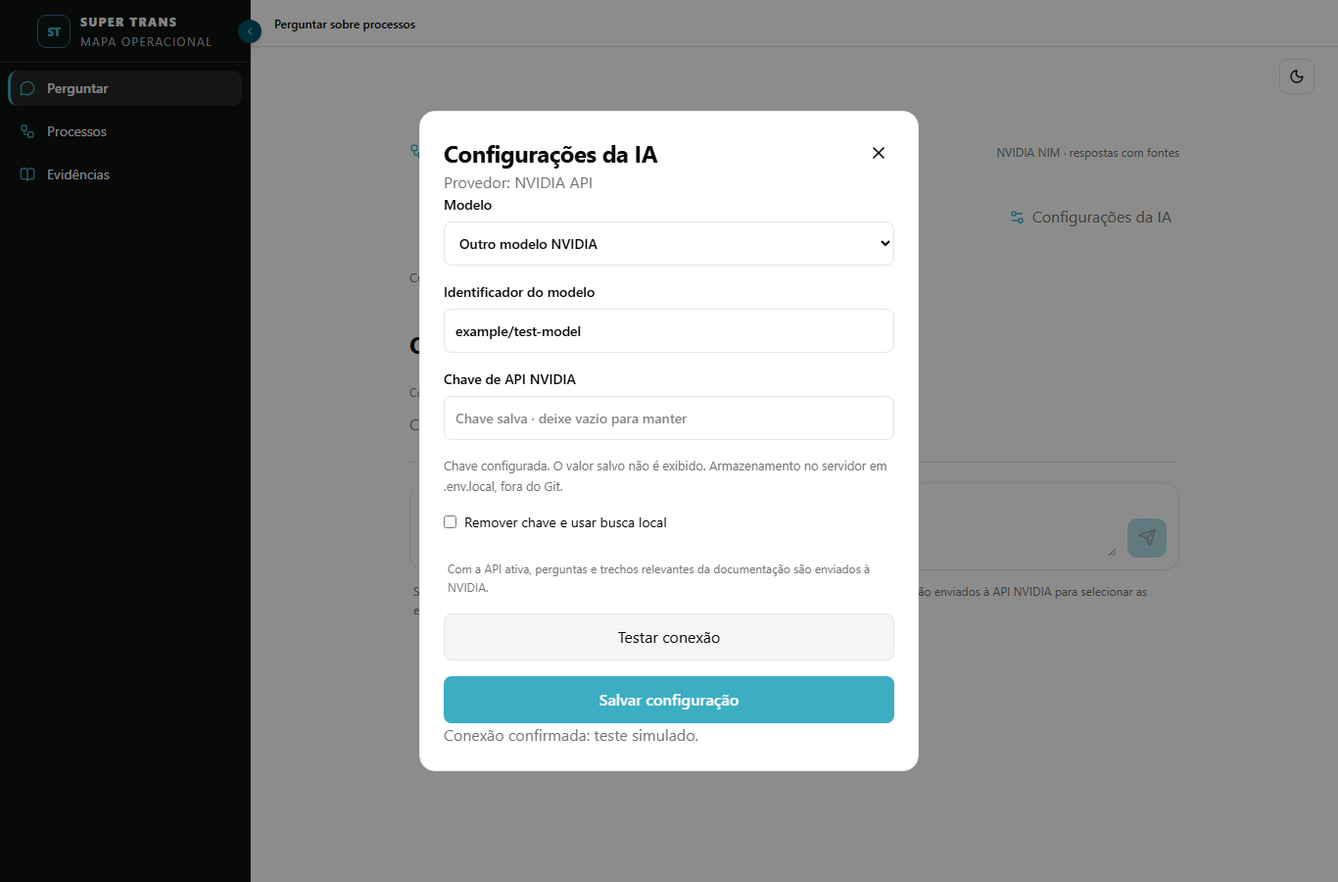
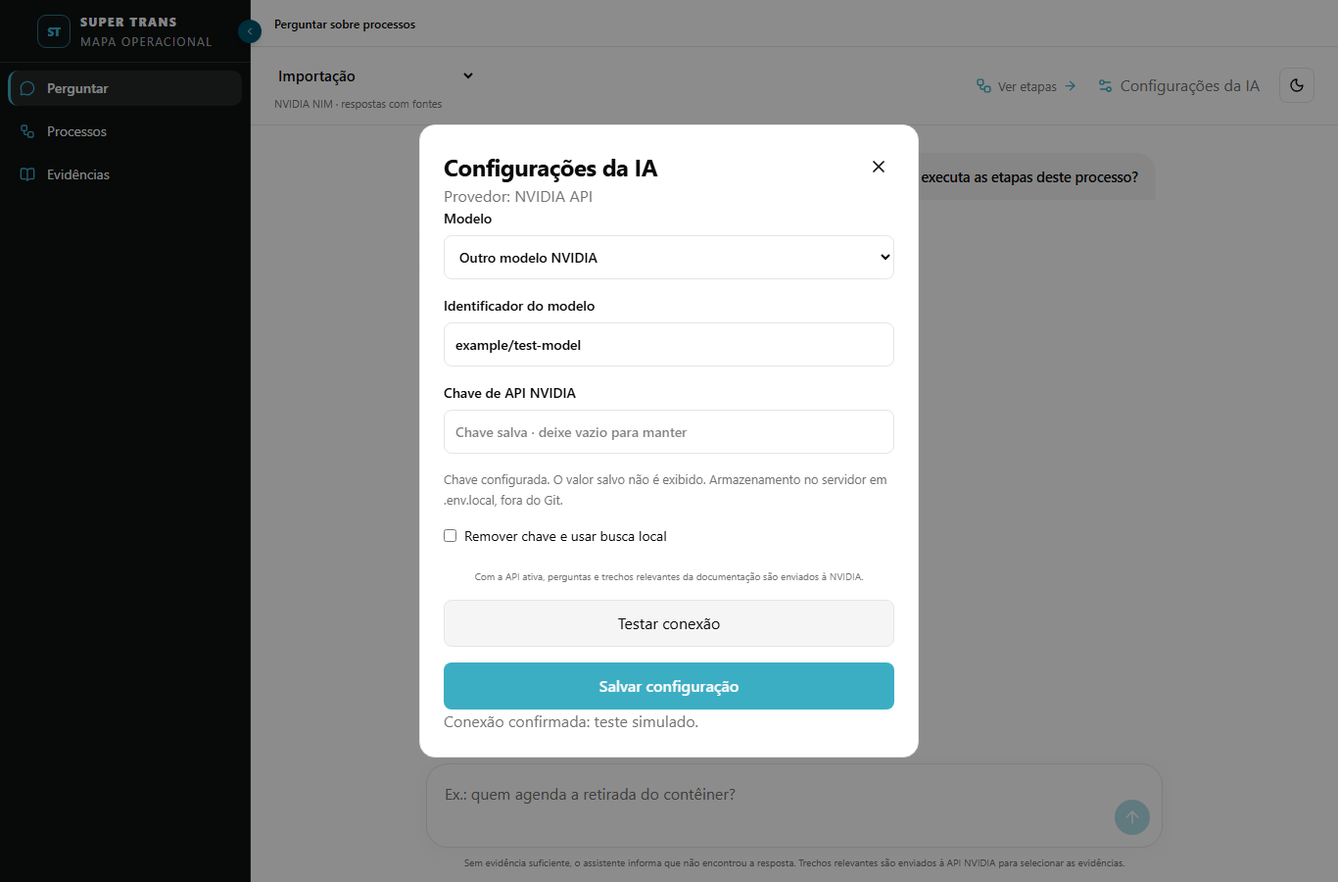
fix: limitar rolagem à conversa e ancorar composer do chat

diff --git a/frontend/src/styles.css b/frontend/src/styles.css
@@ -1471,54 +1471,78 @@ a:focus-visible { outline: 3px solid var(--ring); outline-offset: 2px; }
 .human-review-browser summary {
   cursor: pointer;
 }
-.assistant-page { width: min(850px, 100%); margin: 0 auto; padding: 24px 32px 32px; }
-.assistant-theme { display: flex; justify-content: flex-end; padding: 12px 24px 0; }
-.assistant-header { display: flex; align-items: center; justify-content: space-between; gap: 16px; margin-bottom: 36px; }
-.assistant-flow-link { display: inline-flex; align-items: center; gap: 8px; color: var(--text-secondary); font-size: 14px; }
-.assistant-flow-link svg { color: var(--accent); }
-.assistant-local-status { color: var(--text-muted); font-size: 12px; }
-.assistant-welcome { padding: 28px 0 18px; }
-.assistant-mark { display: inline-flex; padding: 14px; border-radius: 16px; color: var(--accent); background: var(--accent-soft); }
-.assistant-welcome h1 { margin: 20px 0 12px; font-size: clamp(28px, 4vw, 38px); line-height: 1.15; letter-spacing: -.035em; }
-.assistant-welcome p { max-width: 57ch; color: var(--text-secondary); font-size: 16px; }
-.assistant-scope { display: flex; align-items: center; gap: 14px; margin: 22px 0; color: var(--text-secondary); font-size: 13px; }
-.assistant-scope select { min-width: 0; max-width: 65%; padding: 9px 32px 9px 12px; border: 1px solid var(--border-main); border-radius: 8px; color: var(--text-primary); background: var(--bg-surface); }
-.assistant-suggestions { display: grid; gap: 8px; margin: 20px 0 28px; }
-.assistant-suggestions button { display: flex; align-items: center; justify-content: space-between; gap: 14px; padding: 14px 16px; border: 1px solid var(--border-soft); border-radius: 10px; background: transparent; color: var(--text-secondary); text-align: left; font-size: 14px; }
-.assistant-suggestions button:hover { color: var(--text-primary); background: var(--bg-surface); }
-.assistant-suggestions svg { flex: none; color: var(--text-muted); }
-.assistant-composer { display: flex; align-items: flex-end; gap: 10px; padding: 12px; border: 1px solid var(--border-main); border-radius: 15px; background: var(--bg-surface); }
-.assistant-composer:focus-within { border-color: var(--accent); box-shadow: 0 0 0 2px var(--accent-soft); }
-.assistant-composer textarea { width: 100%; min-height: 64px; max-height: 180px; resize: vertical; border: 0; outline: 0; padding: 8px; background: transparent; color: var(--text-primary); font-size: 16px; line-height: 1.5; }
-.assistant-composer textarea::placeholder { color: var(--text-muted); }
-.assistant-composer button { display: grid; place-items: center; flex: none; width: 40px; height: 40px; border: 0; border-radius: 10px; color: #0c2027; background: var(--accent); }
-.assistant-composer button:disabled { opacity: .4; cursor: default; }
-.assistant-footnote { margin: 12px 4px 0; font-size: 12px; color: var(--text-muted); line-height: 1.6; }
-.assistant-turn { padding: 10px 0 26px; margin: 12px 0 20px; border-bottom: 1px solid var(--border-soft); }
-.assistant-turn h2 { margin: 0 0 22px; font-size: 21px; line-height: 1.45; overflow-wrap: anywhere; }
-.assistant-answer > p { color: var(--text-secondary); }
-.assistant-evidence { margin: 20px 0; }
-.assistant-evidence h3 { margin: 0 0 8px; color: var(--text-primary); font-size: 15px; font-weight: 600; }
-.assistant-evidence blockquote { margin: 0; padding: 0 0 0 14px; border-left: 2px solid var(--accent); color: var(--text-secondary); font-size: 14px; line-height: 1.8; white-space: pre-line; overflow-wrap: anywhere; }
-.assistant-evidence details { margin: 10px 0 0 14px; color: var(--text-muted); font-size: 12px; }
-.assistant-evidence summary { cursor: pointer; }
-.assistant-evidence summary svg { display: inline; vertical-align: -2px; margin-right: 5px; color: var(--accent); }
-.assistant-evidence a { color: var(--accent); }
-.assistant-loading { display: flex; align-items: center; gap: 8px; color: var(--text-muted); }
-.assistant-loading svg { animation: assistant-spin 1.2s linear infinite; }
-.assistant-notice { color: var(--text-secondary); font-size: 14px; }
-.assistant-notice button { padding: 8px 12px; border: 1px solid var(--border-main); border-radius: 7px; background: var(--bg-surface); color: var(--text-primary); }
-@keyframes assistant-spin { to { transform: rotate(360deg); } }
-@media (prefers-reduced-motion: reduce) { .assistant-loading svg { animation: none; } }
-@media (max-width: 767px) {
-  .assistant-page { padding: 16px 18px 24px; }
-  .assistant-header { margin-bottom: 12px; flex-wrap: wrap; }
-  .assistant-welcome { padding-top: 14px; }
-  .assistant-scope { flex-wrap: wrap; gap: 8px; }
-  .assistant-scope select { max-width: 100%; width: 100%; }
+/* The chat shell owns the viewport; only its conversation pane scrolls. */
+.assistant-shell { height:100dvh; min-height:0; max-height:100dvh; overflow:hidden; }
+.assistant-shell > div:last-child { min-height:0; }
+.assistant-main-content { display:flex; flex-direction:column; min-height:0; overflow:hidden; }
+.assistant-shell .content-shell { flex:1; min-height:0; width:100%; padding:0; overflow:hidden; }
+.assistant-page { display:flex; flex-direction:column; flex:1; width:100%; min-height:0; min-width:0; overflow:hidden; }
+.assistant-header { display:flex; flex:none; align-items:center; justify-content:space-between; gap:16px; padding:12px 24px; border-bottom:1px solid var(--border); background:var(--background); }
+.assistant-header-context { display:grid; gap:4px; min-width:0; }
+.assistant-header-actions { display:flex; align-items:center; gap:12px; flex:none; }
+.assistant-scope { display:block; min-width:0; }
+.assistant-scope select { max-width:280px; width:100%; min-width:0; padding:6px 26px 6px 0; border:0; border-radius:6px; color:var(--foreground); background:var(--background); font-size:15px; font-weight:600; text-overflow:ellipsis; }
+.assistant-local-status { color:var(--muted-foreground); font-size:11px; }
+.assistant-flow-link { display:inline-flex; align-items:center; gap:6px; color:var(--muted-foreground); font-size:13px; white-space:nowrap; }
+.assistant-flow-link svg { color:var(--accent); }
+.assistant-conversation { flex:1; min-height:0; min-width:0; overflow-y:auto; overflow-x:hidden; overscroll-behavior-y:contain; scrollbar-gutter:stable; outline-offset:-3px; }
+.assistant-thread { width:min(800px,100%); min-width:0; margin:0 auto; padding:28px 24px 44px; }
+.assistant-thread.is-empty { display:grid; place-items:center; min-height:100%; padding-top:24px; padding-bottom:24px; }
+.assistant-welcome { width:100%; text-align:center; }
+.assistant-mark { display:inline-flex; padding:12px; border-radius:16px; color:var(--accent); background:var(--accent-soft); }
+.assistant-welcome h1 { margin:20px 0 12px; font-size:clamp(25px,3vw,36px) !important; line-height:1.2; letter-spacing:-.035em; }
+.assistant-welcome p { max-width:54ch; margin:0 auto; color:var(--muted-foreground); font-size:15px; line-height:1.6; }
+.assistant-suggestions { display:grid; grid-template-columns:repeat(3,minmax(0,1fr)); gap:10px; margin:28px 0 0; }
+.assistant-suggestions button { display:flex; align-items:flex-start; justify-content:space-between; gap:10px; padding:14px; border:1px solid var(--border); border-radius:14px; background:transparent; color:var(--muted-foreground); text-align:left; font-size:13px; line-height:1.5; }
+.assistant-suggestions button:hover { color:var(--foreground); background:var(--secondary); }
+.assistant-suggestions svg { flex:none; margin-top:3px; color:var(--accent); }
+.assistant-turn { min-width:0; margin:0 0 36px; padding:0; }
+.assistant-turn .assistant-question { width:fit-content; max-width:85%; margin:0 0 24px auto; padding:12px 18px; border-radius:20px 20px 4px 20px; background:var(--secondary); color:var(--foreground); font-size:15px !important; font-weight:500; line-height:1.6; overflow-wrap:anywhere; }
+.assistant-answer { min-width:0; font-size:15px; line-height:1.8; }
+.assistant-answer > p { color:var(--foreground); }
+.assistant-answer > .assistant-reply-mode { color:var(--muted-foreground); }
+.assistant-evidence { margin:20px 0; }
+.assistant-evidence h3 { margin:0 0 8px; font-size:14px; font-weight:600; overflow-wrap:anywhere; }
+.assistant-evidence blockquote { margin:0; padding-left:14px; border-left:2px solid var(--accent); color:var(--muted-foreground); font-size:14px; line-height:1.8; white-space:pre-line; overflow-wrap:anywhere; }
+.assistant-evidence details { margin:10px 0 0 14px; color:var(--muted-foreground); font-size:12px; }
+.assistant-evidence summary { cursor:pointer; }
+.assistant-evidence summary svg { display:inline; vertical-align:-2px; margin-right:5px; color:var(--accent); }
+.assistant-evidence a { color:var(--accent); }
+.assistant-compose-area { flex:none; width:100%; background:var(--background); padding:12px 24px max(12px,env(safe-area-inset-bottom)); }
+.assistant-compose-inner { width:min(752px,100%); margin:0 auto; }
+.assistant-composer { display:flex; align-items:flex-end; gap:10px; padding:12px; border:1px solid var(--border); border-radius:22px; background:var(--card); box-shadow:0 3px 18px rgb(0 0 0 / 4%); }
+.assistant-composer:focus-within { border-color:var(--accent); box-shadow:0 0 0 2px var(--accent-soft); }
+.assistant-composer textarea { width:100%; min-width:0; min-height:48px; max-height:144px; resize:none; border:0; outline:0; padding:6px; background:transparent; color:var(--foreground); font-size:16px; line-height:1.5; }
+.assistant-composer textarea::placeholder { color:var(--muted-foreground); }
+.assistant-composer button { display:grid; place-items:center; flex:none; width:36px; height:36px; border:0; border-radius:50%; color:var(--text-inverse); background:var(--accent); }
+.assistant-composer button:disabled { opacity:.4; cursor:default; }
+.assistant-footnote { margin:8px 8px 0; color:var(--muted-foreground); font-size:10px; line-height:1.5; text-align:center; }
+.assistant-loading { display:flex; align-items:center; gap:8px; color:var(--muted-foreground); font-size:14px; }
+.assistant-loading svg { animation:assistant-spin 1.2s linear infinite; }
+.assistant-notice { color:var(--muted-foreground); font-size:14px; }
+.assistant-notice button { padding:8px 12px; border:1px solid var(--border); border-radius:7px; background:var(--card); color:var(--foreground); }
+@keyframes assistant-spin { to { transform:rotate(360deg); } }
+@media (prefers-reduced-motion:reduce) { .assistant-loading svg { animation:none; } }
+@media (max-width:767px) {
+  .assistant-header { padding:10px 16px; gap:8px; flex-wrap:wrap; }
+  .assistant-header-context { flex:1; min-width:155px; }
+  .assistant-scope select { max-width:180px; font-size:14px; }
+  .assistant-local-status { font-size:10px; }
+  .assistant-header-actions { gap:8px; }
+  .assistant-header-actions .assistant-settings-trigger { padding:6px; }
+  .assistant-header-actions .assistant-settings-trigger span { display:none; }
+  .assistant-flow-link { font-size:12px; }
+  .assistant-flow-link > svg:last-child { display:none; }
+  .assistant-thread { padding:20px 16px 32px; }
+  .assistant-welcome h1 { font-size:25px !important; margin-top:12px; }
+  .assistant-welcome p { font-size:13px; }
+  .assistant-suggestions { grid-template-columns:1fr; gap:8px; margin-top:20px; }
+  .assistant-suggestions button { padding:10px 12px; }
+  .assistant-compose-area { padding:8px 12px max(8px,env(safe-area-inset-bottom)); }
+  .assistant-composer { border-radius:18px; padding:10px; }
+  .assistant-turn .assistant-question { max-width:94%; }
 }
 
-.assistant-settings-bar { display:flex; justify-content:flex-end; margin:8px 0 20px; }
 .assistant-settings-trigger { display:inline-flex; align-items:center; gap:7px; background:transparent; color:var(--muted-foreground); border:0; padding:8px; cursor:pointer; }
 .assistant-settings-trigger svg { color:var(--accent); }
 .assistant-settings { margin:auto; width:min(510px, calc(100vw - 32px)); max-height:calc(100dvh - 40px); overflow:auto; padding:24px; border:1px solid var(--border); border-radius:16px; background:var(--card); color:var(--foreground); }

diff --git a/frontend/src/components/AssistantPage.tsx b/frontend/src/components/AssistantPage.tsx
@@ -1,8 +1,9 @@
 import { useEffect, useRef, useState, type FormEvent } from 'react'
-import { ArrowRight, BookOpen, CornerDownLeft, LoaderCircle, MessageCircle, Send, Workflow } from 'lucide-react'
+import { ArrowRight, ArrowUp, BookOpen, CornerDownLeft, LoaderCircle, MessageCircle, Workflow } from 'lucide-react'
 import { Link } from 'react-router-dom'
 import type { FrontendCatalog } from '../data/types'
 import { AssistantSettings } from './AssistantSettings'
+import { ThemeToggle } from './ThemeToggle'
 
 interface Evidence { id: string; file: string; line: number; title: string; quote: string; processId: string | null }
 interface Responsibility { executor: string; activities: { title: string; diagram: string; sourceId: string }[] }
@@ -17,6 +18,7 @@ export function AssistantPage({ catalog }: { catalog: FrontendCatalog }) {
   const [mode, setMode] = useState<'local-search' | 'local-nim' | 'nvidia-api' | 'offline'>('offline')
   const [externalContext, setExternalContext] = useState(false)
   const lastReply = useRef<HTMLElement>(null)
+  const conversation = useRef<HTMLDivElement>(null)
   const request = useRef<AbortController | null>(null)
   const revision = useRef(0)
   useEffect(() => {
@@ -27,7 +29,14 @@ export function AssistantPage({ catalog }: { catalog: FrontendCatalog }) {
     }).then((data) => { setMode(data.mode); setExternalContext(Boolean(data.externalContext)) }).catch(() => {})
     return () => { controller.abort(); request.current?.abort() }
   }, [])
-  useEffect(() => { if (turns.length) lastReply.current?.scrollIntoView({ behavior: 'smooth', block: 'start' }) }, [turns, pending])
+  useEffect(() => {
+    const viewport = conversation.current
+    const turn = lastReply.current
+    if (viewport && turn) {
+      const top = viewport.scrollTop + turn.getBoundingClientRect().top - viewport.getBoundingClientRect().top - 24
+      viewport.scrollTo({ top, behavior: 'instant' })
+    }
+  }, [turns])
 
   async function ask(value: string) {
     const text = value.trim()
@@ -56,26 +65,34 @@ export function AssistantPage({ catalog }: { catalog: FrontendCatalog }) {
   return (
     <div className="assistant-page">
       <header className="assistant-header">
-        <Link className="assistant-flow-link" to={`/operacao/${processId || 'P001'}`}><Workflow size={17} aria-hidden="true" />Ver etapas<ArrowRight size={15} aria-hidden="true" /></Link>
-        <span className="assistant-local-status">{mode === 'nvidia-api' ? 'NVIDIA NIM · respostas com fontes' : mode === 'local-nim' ? 'NIM local · respostas com fontes' : mode === 'local-search' ? 'Busca local · trechos documentados' : 'Base de processos'}</span>
-      </header>
-      <div className="assistant-settings-bar"><AssistantSettings onSaved={(settings) => { setMode(settings.mode); setExternalContext(settings.externalContext) }} /></div>
-      {turns.length === 0 && <section className="assistant-welcome">
-        <span className="assistant-mark"><MessageCircle size={27} aria-hidden="true" /></span>
-        <h1>O que você quer entender?</h1>
-        <p>Pergunte sobre a operação. As respostas consultam somente a base de documentação.</p>
-      </section>}
-      <label className="assistant-scope">Consultar processo
+        <div className="assistant-header-context">
+        <label className="assistant-scope"><span className="sr-only">Consultar processo</span>
         <select value={processId} onChange={(event) => {
           revision.current += 1; request.current?.abort(); setPending(false); setProcessId(event.target.value); setTurns([])
+          conversation.current?.scrollTo({ top: 0 })
         }}>
           <option value="">Todos os processos</option>
           {catalog.processes.map((process) => <option key={process.id} value={process.id}>{process.name}</option>)}
         </select>
       </label>
-      <div className="assistant-conversation" aria-live="polite" aria-busy={pending}>
+        <span className="assistant-local-status">{mode === 'nvidia-api' ? 'NVIDIA NIM · respostas com fontes' : mode === 'local-nim' ? 'NIM local · respostas com fontes' : mode === 'local-search' ? 'Busca local · trechos documentados' : 'Base de processos'}</span>
+        </div>
+        <div className="assistant-header-actions">
+          <Link className="assistant-flow-link" to={`/operacao/${processId || 'P001'}`}><Workflow size={17} aria-hidden="true" />Ver etapas<ArrowRight size={15} aria-hidden="true" /></Link>
+          <AssistantSettings onSaved={(settings) => { setMode(settings.mode); setExternalContext(settings.externalContext) }} />
+          <ThemeToggle />
+        </div>
+      </header>
+      <div className="assistant-conversation" ref={conversation} role="log" aria-label="Conversa sobre o processo" aria-live="polite" aria-busy={pending} tabIndex={0}>
+        <div className={`assistant-thread${turns.length === 0 ? ' is-empty' : ''}`}>
+        {turns.length === 0 && <section className="assistant-welcome">
+          <span className="assistant-mark"><MessageCircle size={27} aria-hidden="true" /></span>
+          <h1>O que você quer entender?</h1>
+          <p>Pergunte sobre a operação. As respostas consultam somente a base de documentação.</p>
+          <div className="assistant-suggestions">{suggestions.map((text) => <button key={text} onClick={() => void ask(text)}>{text}<CornerDownLeft size={15} aria-hidden="true" /></button>)}</div>
+        </section>}
         {turns.map((turn, index) => <article className="assistant-turn" key={index} ref={index === turns.length - 1 ? lastReply : undefined}>
-          <h2>{turn.question}</h2>
+          <h2 className="assistant-question">{turn.question}</h2>
           {turn.reply && <div className="assistant-answer">
             <p className="assistant-reply-mode">{turn.reply.mode === 'nvidia-api' ? 'Resposta com NVIDIA' : turn.reply.mode === 'local-nim' ? 'Resposta com NIM local' : 'Consulta direta à documentação'}</p>
             <p className="assistant-response-text">{turn.reply.answer}</p>
@@ -97,16 +114,18 @@ export function AssistantPage({ catalog }: { catalog: FrontendCatalog }) {
           {turn.error && <div role="alert" className="assistant-notice"><p>{turn.error}</p><button onClick={() => void ask(turn.question)}>Tentar novamente</button></div>}
           {!turn.reply && !turn.error && pending && <p className="assistant-loading"><LoaderCircle size={17} aria-hidden="true" />Consultando a base local…</p>}
         </article>)}
+        </div>
       </div>
+      <footer className="assistant-compose-area"><div className="assistant-compose-inner">
       <form className="assistant-composer" onSubmit={submit}>
         <label className="sr-only" htmlFor="process-question">Sua pergunta sobre o processo</label>
         <textarea id="process-question" rows={2} maxLength={2000} value={question} onChange={(event) => setQuestion(event.target.value)}
           onKeyDown={(event) => { if (event.key === 'Enter' && !event.shiftKey && !event.nativeEvent.isComposing) { event.preventDefault(); void ask(question) } }}
           placeholder="Ex.: quem agenda a retirada do contêiner?" />
-        <button type="submit" disabled={pending || question.trim().length < 3} aria-label="Enviar pergunta"><Send size={19} aria-hidden="true" /></button>
+        <button type="submit" disabled={pending || question.trim().length < 3} aria-label="Enviar pergunta"><ArrowUp size={20} aria-hidden="true" /></button>
       </form>
-      {turns.length === 0 && <div className="assistant-suggestions">{suggestions.map((text) => <button key={text} onClick={() => void ask(text)}>{text}<CornerDownLeft size={15} aria-hidden="true" /></button>)}</div>}
       <p className="assistant-footnote">Sem evidência suficiente, o assistente informa que não encontrou a resposta. {externalContext ? 'Trechos relevantes são enviados à API NVIDIA para selecionar as evidências.' : 'Busca executada neste ambiente.'}</p>
+      </div></footer>
     </div>
   )
 }

diff --git a/frontend/src/components/AssistantSettings.tsx b/frontend/src/components/AssistantSettings.tsx
@@ -82,7 +82,7 @@ export function AssistantSettings({ onSaved }: { onSaved: (settings: Settings) =
   }
 
   return <>
-    <button className="assistant-settings-trigger" onClick={() => void open()}><Settings2 size={17} aria-hidden="true" />Configurações da IA</button>
+    <button className="assistant-settings-trigger" aria-label="Configurações da IA" onClick={() => void open()}><Settings2 size={17} aria-hidden="true" /><span>Configurações da IA</span></button>
     <dialog ref={dialog} className="assistant-settings" aria-labelledby="ai-settings-title" onClose={() => { setKey(''); controller.current?.abort() }} onCancel={(event) => { if (busy) event.preventDefault() }}>
       <div className="assistant-settings-heading"><h2 id="ai-settings-title">Configurações da IA</h2><button aria-label="Fechar configurações" disabled={busy} onClick={() => dialog.current?.close()}><X size={20} aria-hidden="true" /></button></div>
       {error && <p role="alert" className="assistant-notice">{error}</p>}

diff --git a/frontend/src/App.tsx b/frontend/src/App.tsx
@@ -186,8 +186,8 @@ function AppShell() {
 
   return (
     <OrionAppShell
-      className="app-shell orion-app-shell"
-      contentClassName="orion-main-content"
+      className={`app-shell orion-app-shell${assistantView ? ' assistant-shell' : ''}`}
+      contentClassName={`orion-main-content${assistantView ? ' assistant-main-content' : ''}`}
       sidebar={{
         brand,
         navigation,
@@ -272,7 +272,6 @@ function AppShell() {
           </Button>
         </div>
       </header>}
-      {assistantView && <div className="assistant-theme"><ThemeToggle /></div>}
       <div id="main-content" className="content-shell">
         <Outlet />
       </div>

diff --git a/DECISIONS.md b/DECISIONS.md
@@ -620,3 +620,13 @@ Adicionado POST /api/chat/settings/test com mesma restrição de Origin/JSON, ch
 NVIDIA passa a stream=true, acumulando SSE no servidor (resposta ao frontend permanece JSON). Ignora reasoning_content/choices vazios; limita tamanho e duração. NIM local mantém contrato anterior. Teste sintético não streaming inicial expirou em45s; streaming respondeu em10s e teste integrado confirmou em cerca de3s. Painel real confirmou novamente após uma tentativa de timeout, evidenciando variação de latência externa; não se promete disponibilidade/latência estável nem se atribui timeout a chave inválida.
 
 74 Python/29 Vitest/build aprovados. Regressão UI salva+resposta local mantém NVIDIA, três temas/larguras com transporte simulado. Painel real só executou status/configurações/teste sintético, com /api/chat bloqueado e comparação byte a byte de .env.local preservado. Primeiro teste de navegador com pergunta foi rejeitado pela revisão automática por possível envio de documentos; substituído por painel/conexão sem perguntas. Nenhum documento operacional enviado. Inferência sintética real agora comprovada; qualidade sobre acervo continua não avaliada. Próximo: reiniciar npm run dev e revisar status/configuração, mantendo pendências operacionais anteriores.
+
+## DEC-053 — chat ocupa viewport, só conversa rola (2026-10-22)
+
+Usuário pediu interface semelhante ao padrão de chat do ChatGPT, com rolagem do texto em vez da tela inteira. Reproduzido no navegador com texto sintético: resposta longa aumentava documentElement.scrollHeight além da viewport. Shell Orion já possuía main rolável, enquanto conteúdo/chat cresciam sem restrição; scrollIntoView ainda podia deslocar ancestrais.
+
+Aplicação limitada às rotas / e /assistente: assistant-shell com height100dvh/min-height0, main e content flex/overflow hidden, conversa flex1/min-height0/overflow-y auto/overscroll contain. Cabeçalho e composer são irmãos fixos no fluxo flex, fora do scroll. Não usa position fixed global nem edita pacote Orion. Rotas de processos/evidências mantêm comportamento anterior. Scroll automático usa coordenadas relativas no próprio contêiner, não scrollIntoView.
+
+Visual: contexto/ações compactos no topo, tema junto das configurações, pergunta em balão à direita, coluna central e sugestões no estado vazio, envio por seta e rodapé legível. Configurações preserva nome acessível quando exibe só ícone no celular. Regra global h2!important interferia nas perguntas; override restrito ao chat mantém15px. Não replica marca/produto externo nem altera acervo/IA.
+
+Build e29 Vitest OK. QA chat-layout falhou antes e passou depois em1366x900/390x844/390x667, temas claro/escuro, wheel real, duas mensagens longas, altura mobile reduzida a500, sem crescimento do documento, header/composer imóveis e retorno ao processo. QA assistant-settings cobre salvar/testar/remover com estado simulado e passa no novo cabeçalho. Todo tráfego API dos testes interceptado; nenhuma chamada externa/chave real. Capturas conferidas em docs/screenshots/chat-layout. Próximo: atualizar navegador e revisão visual do usuário; não declarar solucionada qualidade das respostas por esta mudança de layout.

diff --git a/.codex/HANDOFF.md b/.codex/HANDOFF.md
@@ -463,3 +463,11 @@ DEC-052. Chave real existia salva; usuário confirmou sintoma de continuar em bu
 74 Python/29 Vitest/build OK. QA assistant-settings cobre salvar/resposta local/status com mocks em desktop/mobile/claro/escuro. QA assistant-provider-state testa painel REAL na porta5173, /api/chat bloqueado e arquivo .env.local byte idêntico. NVIDIA respondeu ao modelo/chave existentes em texto sintético; houve também timeout, então não prometer latência estável. Nenhum acervo enviado. Teste inicial com pergunta foi bloqueado por auto-review e substituído por painel sem perguntas. Arquivo de segredo não foi versionado nem seu valor exposto.
 
 Próximo exato: usuário reiniciar npm run dev para carregar backend novo e revisar configuração. Não solicitar chave no chat; ela já existe. Qualidade documental continua pendente, distinta do teste sintético confirmado. Serviços de QA devem ser encerrados para liberar5173/8765 antes do usuário iniciar. Fontes/raw/normalized/review/knowledge intactos.
+
+## CHECKPOINT VIGENTE — chat/rolagem interna (2026-10-22)
+
+DEC-053. User rejeitou tela quebrada e pediu padrão ChatGPT: só texto/conversa rola. App.tsx aplica assistant-shell/assistant-main-content apenas ao assistente. CSS restringe100dvh e zera min-height nas camadas flex, overflow hidden nos pais e auto só na conversa. AssistantPage tem thread central, header compacto com processo/status/ações/tema, mensagem do usuário em balão e composer/rodapé fora do scroll. Scroll automático usa scrollTo local em vez de scrollIntoView. AssistantSettings ganhou span/aria-label para ícone móvel. Backend/NVIDIA/chave sem alterações.
+
+Build/29 Vitest OK. QA chat-layout reproduziu falha antes e passou após correção, com respostas longas/sucessivas, wheel, desktop/mobile/temas, viewport mobile de500px, posições constantes do header/composer, documento sem overflow e navegação para etapas. QA assistant-settings também OK, mockando inclusive status, com QA_BASE_URL para frontend isolado. Nenhum documento ou chave enviado para fora; somente Vite isolado na4174 durante testes. Capturas em docs/screenshots/chat-layout e configurações renovadas. Fontes/raw/normalized/review/knowledge intactos.
+
+Próximo exato: usuário atualizar página para revisar layout; alteração é frontend e não exige mudar configuração da IA. Encerrar Vite de QA4174 ao concluir. Pendências de qualidade documental e operação anteriores permanecem. Não pedir a chave novamente.

diff --git a/PROJECT_STATUS.md b/PROJECT_STATUS.md
@@ -351,3 +351,9 @@ npm run dev em frontend agora inicia Python e Vite, aguarda saúde, recusa porta
 Relato confirmado: chave estava salva, mas resposta local sobrescrevia o indicador do provedor. Removida essa sobrescrita; modo de cada resposta é apresentado separadamente. Configurações agora testa conexão sintética ao salvar e por botão explícito, sem documentos; falhas distinguem credencial/permissão/modelo/cota/rede/timeout. Transporte NVIDIA passou para SSE, ignorando reasoning e eventos vazios. DEC-052.
 
 Validação: 74 Python/29 Vitest/build; QA da regressão com transporte simulado e painel real via localhost:5173. Conexão real confirmada com chave/modelo existentes e texto sintético; houve timeout em outra tentativa, sem atribuí-lo à chave. .env.local permaneceu byte idêntico, não versionado nem exposto. Nenhum documento enviado à NVIDIA. Próximo: usuário reiniciar npm run dev e revisar status; qualidade de respostas operacionais segue pendente.
+
+## Marco 2026-10-22 — chat com rolagem interna (DEC-053)
+
+Corrigido crescimento da página e espaço vazio do print. Somente rotas do assistente recebem shell com altura100dvh, main/content flex com min-height0 e overflow hidden; conversa possui overflow-y auto. Cabeçalho compacto reúne processo, estado, etapas, configurações e tema. Composer/rodapé ancorados fora da conversa, pergunta em balão e leitura centralizada. Scroll programático atua apenas no contêiner da conversa, sem scrollIntoView dos ancestrais. Demais rotas preservam shell anterior.
+
+Build/29 Vitest OK. QA chat-layout primeiro reproduziu a página crescendo e depois passou: respostas longas/sucessivas, roda do mouse, altura reduzida no celular, cabeçalho/composer imóveis, zero overflow do documento, dois temas/desktop/mobile e acesso a configurações/etapas. QA assistant-settings também passou com API totalmente simulada; nenhuma chamada NVIDIA nem alteração da chave/fontes/dados. Capturas docs/screenshots/chat-layout. Próximo: usuário atualizar navegador e revisar ergonomia; pendências de qualidade documental/operacionais anteriores continuam.

diff --git a/docs/assistant.md b/docs/assistant.md
@@ -76,3 +76,9 @@ O indicador superior representa o provedor configurado e não é sobrescrito pel
 POST /api/chat/settings/test aceita rascunho ou a chave já salva, sem devolver segredo e sem persistir alterações. Usa texto sintético, sem acervo. O salvamento continua separado da validade: chave fica salva mesmo se o teste falhar, com mensagem explícita. Erros 401/403/404/429, parâmetros, rede e timeout têm diagnósticos distintos, sem repetir corpo de erro do provedor. SSE ignora reasoning_content e eventos sem choices.
 
 QA assistant-settings reproduz salvar seguido de resposta local e confirma que o estado NVIDIA permanece, em três temas/larguras, com transporte simulado. QA assistant-provider-state exige chave existente e testa só o painel/conexão sintética real, bloqueando /api/chat e conferindo .env.local byte a byte. Nenhum documento operacional foi enviado nesta validação.
+
+## Layout e rolagem do chat
+
+A tela do assistente ocupa a viewport. Cabeçalho com processo/estado/etapas/configurações/tema e composer inferior ficam fora da rolagem. Somente a conversa central rola; perguntas aparecem em balões e evidências permanecem sob demanda. Mudança restrita ao assistente, sem travar navegação das outras páginas. Teclado virtual não foi testado em dispositivo físico; QA inclui redução da altura disponível no navegador mobile.
+
+`node scripts/visual-qa/chat-layout.mjs` usa Vite isolado em4174 e intercepta todas as rotas API. Testa resposta longa e segunda mensagem, wheel, posições do composer/cabeçalho, altura do documento, celular, temas e acesso a configurações/etapas. Capturas em docs/screenshots/chat-layout. `QA_BASE_URL=http://127.0.0.1:4174` permite executar QA de configurações na mesma instância, também com APIs simuladas.

diff --git a/TASKS.md b/TASKS.md
@@ -339,3 +339,12 @@ O plano abaixo foi executado parcialmente nesta fase; a coluna Jira ficou penden
 - [x] Implementar SSE conforme exemplo fornecido e ignorar reasoning/eventos vazios.
 - [x] Validar 74 Python/29 Vitest/build, regressão visual simulada e painel real com mensagem sintética.
 - [ ] Revisão do usuário após reiniciar npm run dev; avaliar qualidade operacional sem confundir teste sintético com resposta documental.
+
+## Interface de chat e rolagem — 2026-10-22
+
+- [x] Reproduzir aumento indevido da página com resposta longa.
+- [x] Conter tela na viewport, rolar somente conversa e manter composer/cabeçalho ancorados.
+- [x] Compactar controles, separar perguntas em balões e preservar etapas/configurações/tema.
+- [x] Corrigir interferência do título global grande na tipografia das mensagens.
+- [x] Validar build/29 Vitest e QA desktop/mobile/claro/escuro, roda do mouse, segunda mensagem e altura reduzida.
+- [ ] Revisão visual do usuário após atualizar página; qualidade da IA permanece unidade separada.
